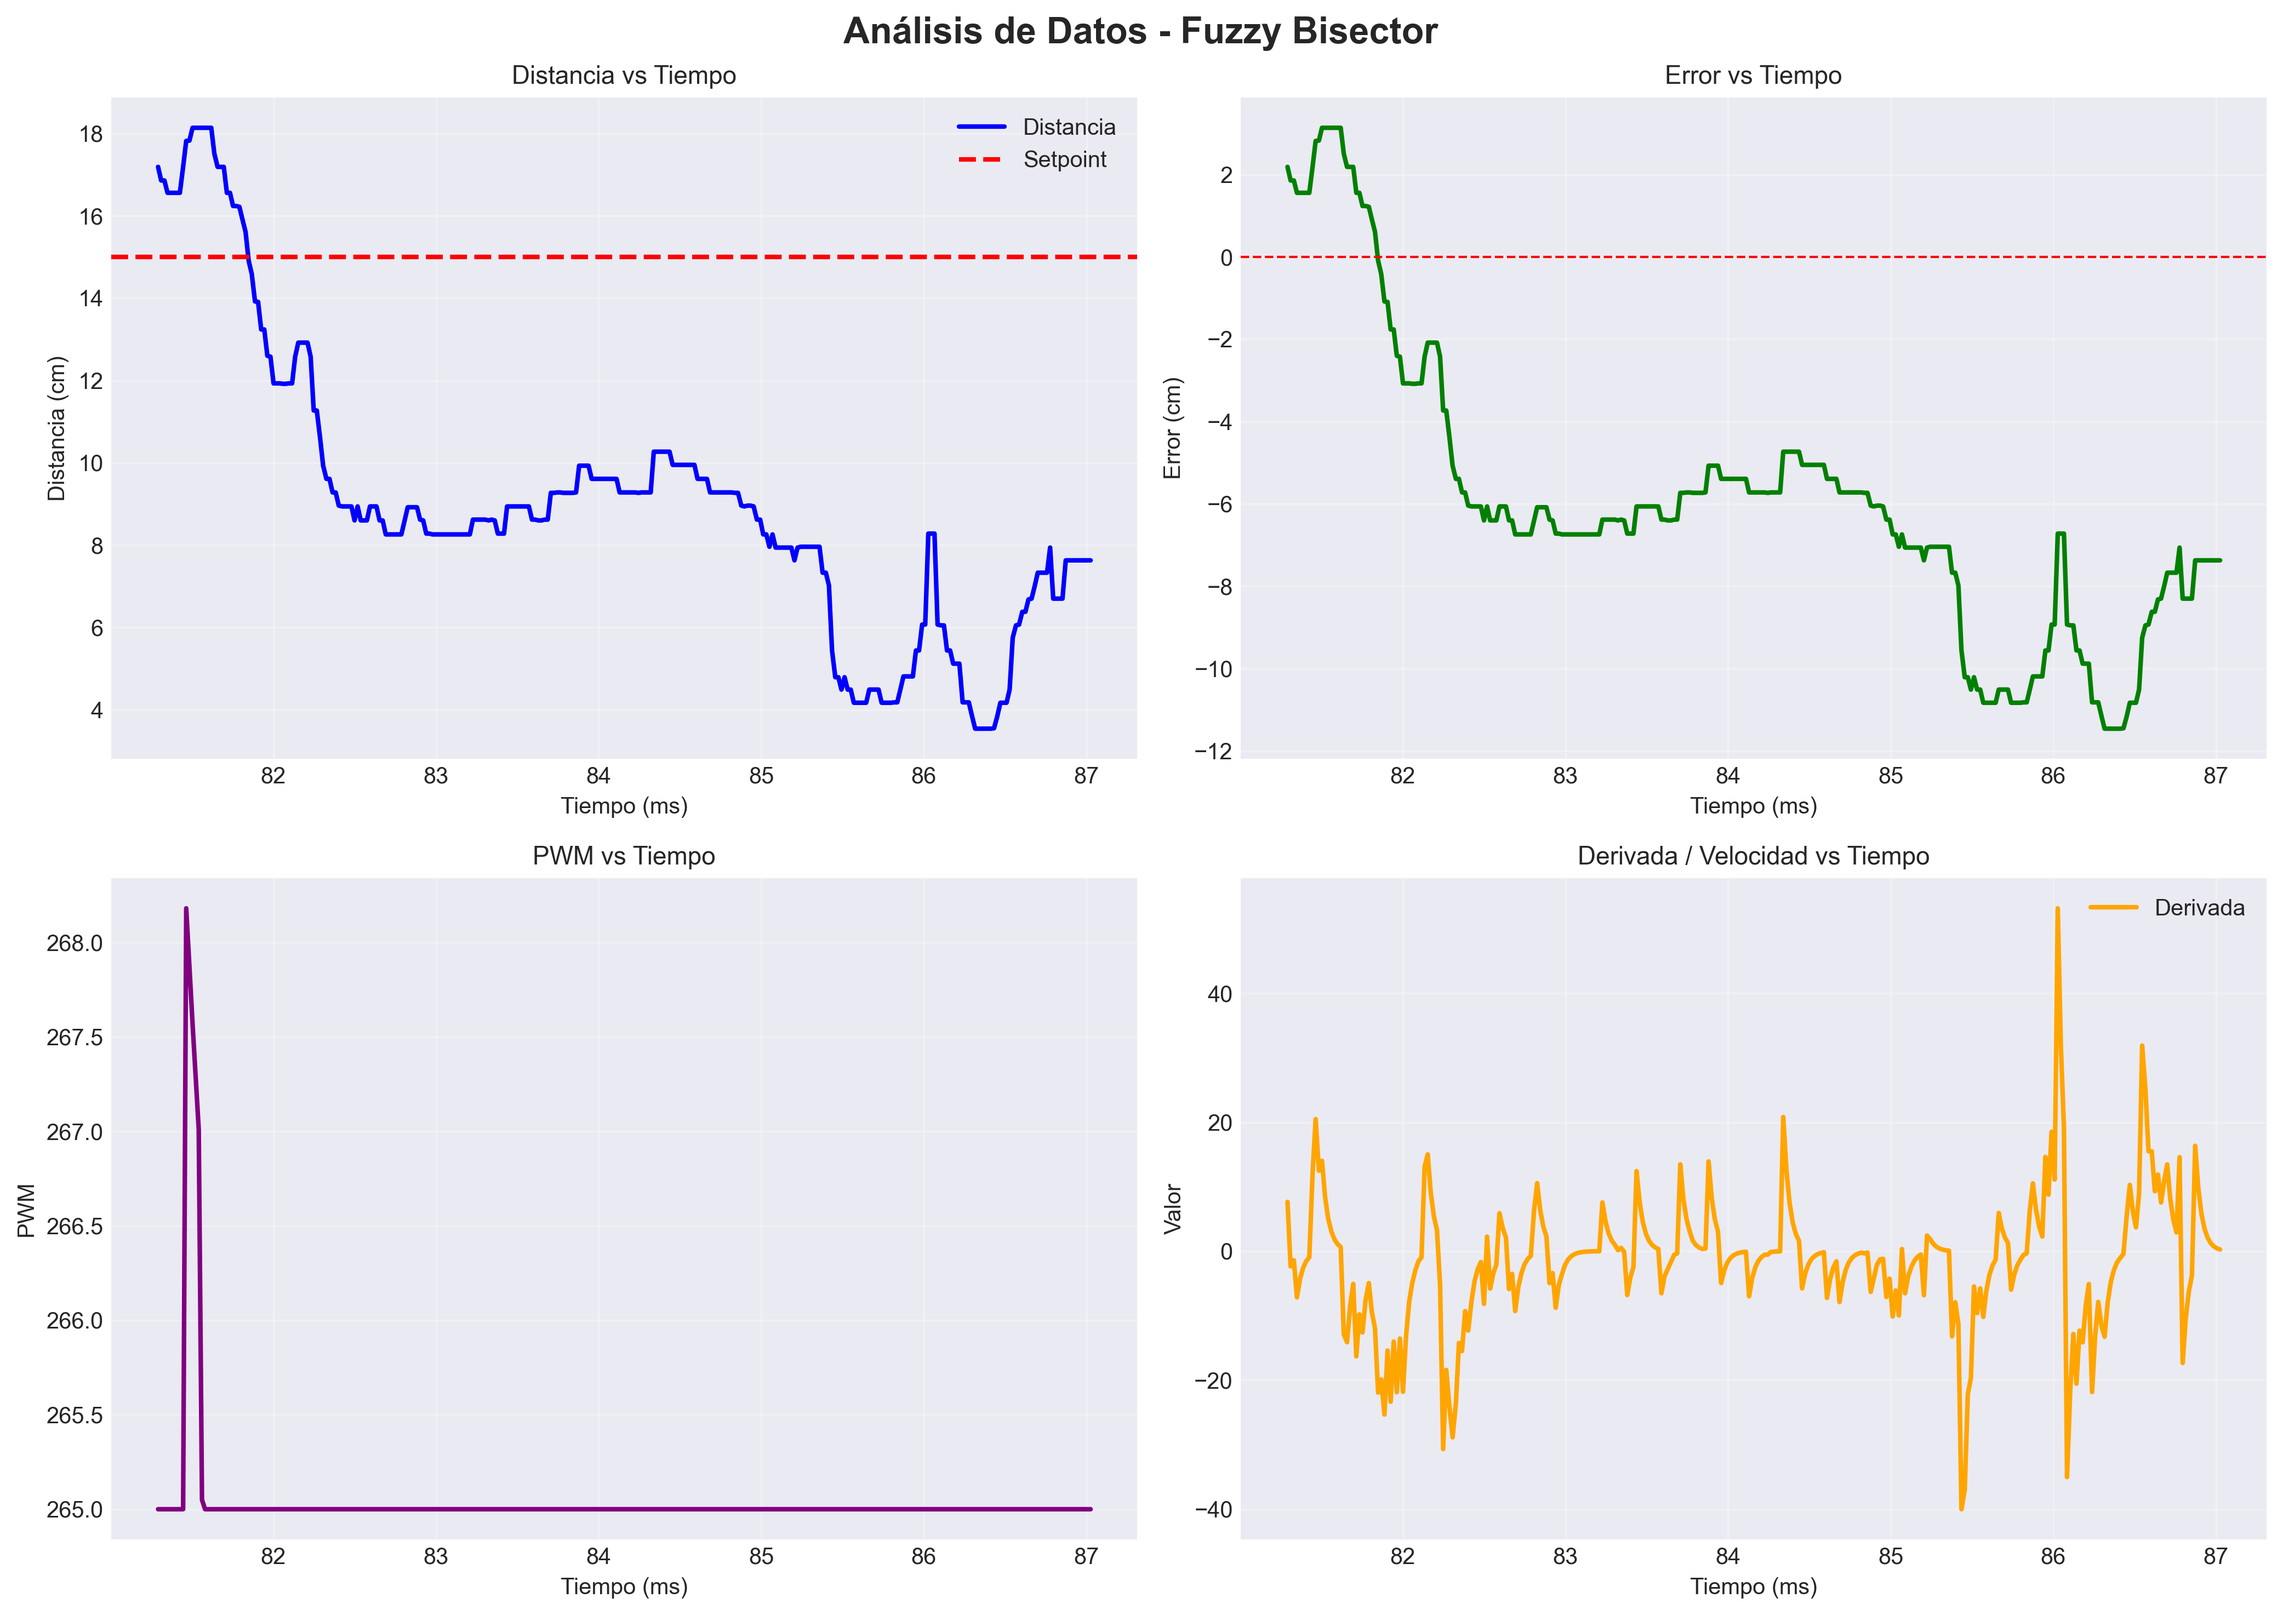
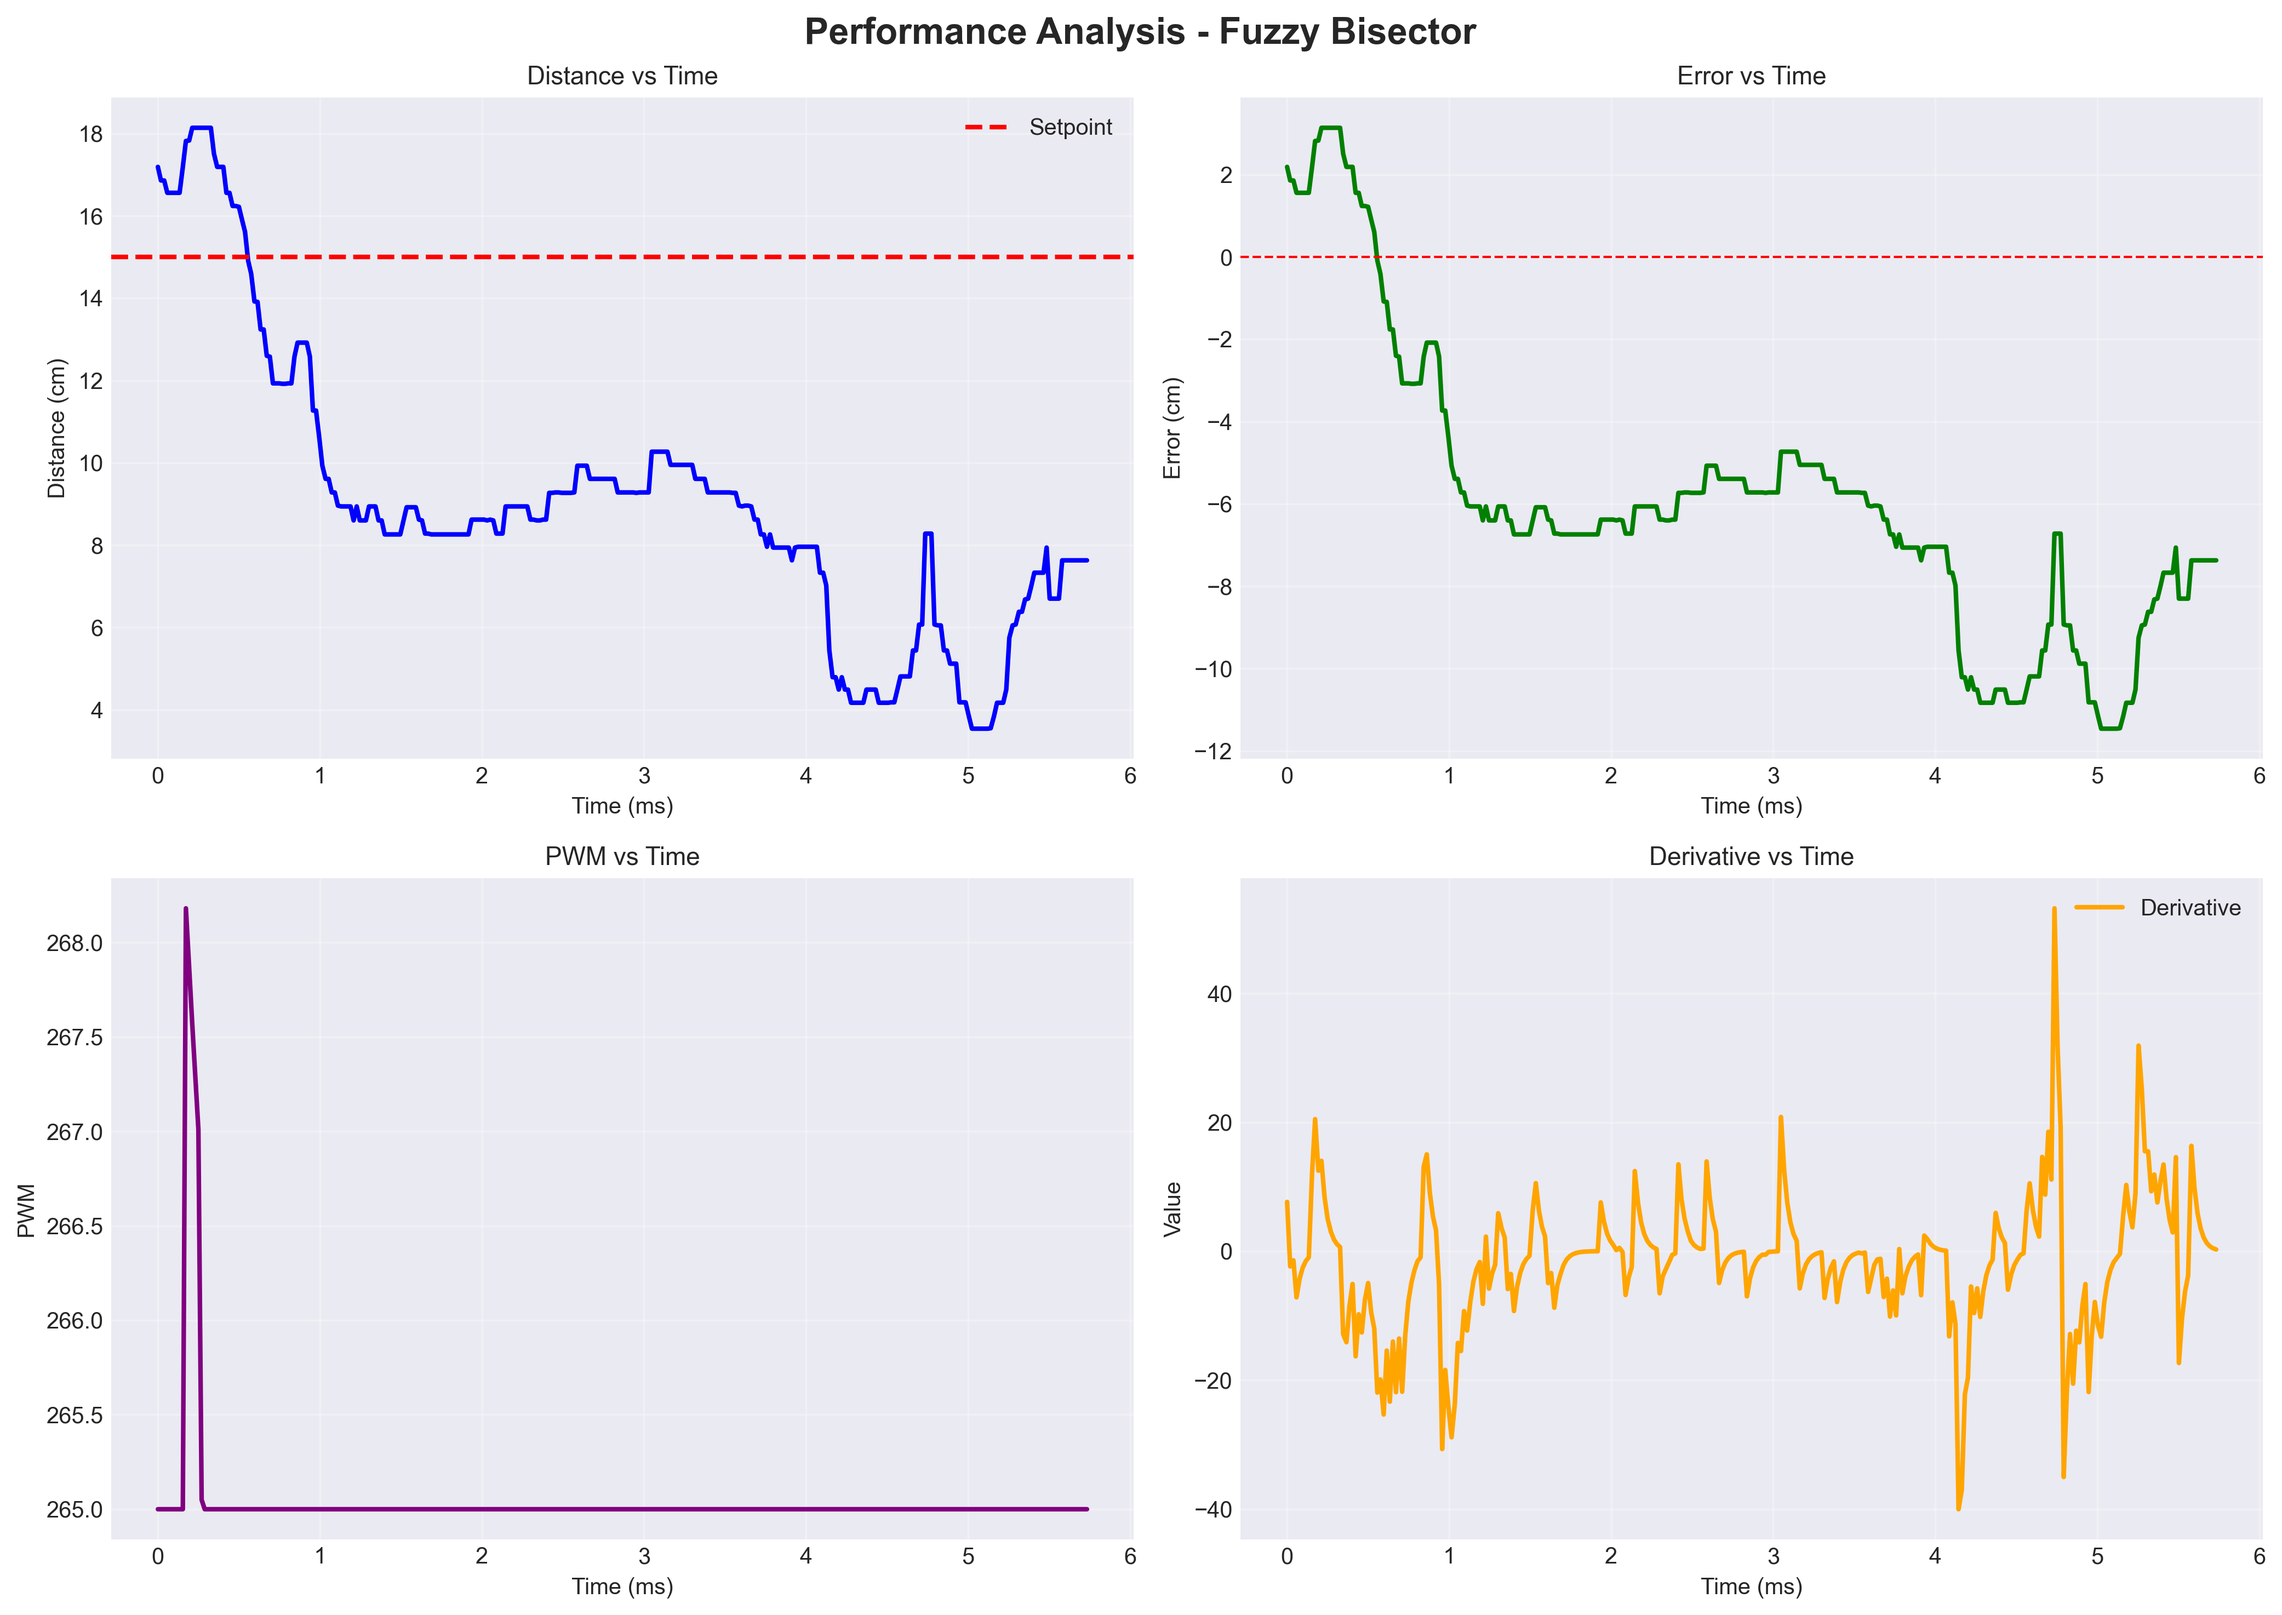
Final: Normalized time graphs for IEEE format - All methods properly overlaid and aligned

diff --git a/graficar_simple.py b/graficar_simple.py
@@ -1,0 +1,244 @@
+import pandas as pd
+import matplotlib.pyplot as plt
+import os
+
+# Crear directorio para guardar gráficas
+output_dir = r"c:\codigos-IA\graficas_compiladas"
+os.makedirs(output_dir, exist_ok=True)
+
+# Organizar métodos por categoría
+fuzzy_methods = {
+    'Bisector': r'c:\codigos-IA\logica_difusa\datos_esp32_bisector.csv',
+    'Centroide': r'c:\codigos-IA\logica_difusa\datos_esp32_centroide.csv',
+    'MOM': r'c:\codigos-IA\logica_difusa\datos_esp32_mom.csv',
+}
+
+neural_methods = {
+    'ReLU': r'c:\codigos-IA\redes_neuronales\datos_esp32_relu.csv',
+    'Sigmoid': r'c:\codigos-IA\redes_neuronales\datos_esp32_sigmoid.csv',
+    'Tanh': r'c:\codigos-IA\redes_neuronales\datos_esp32_tanh.csv',
+}
+
+rl_methods = {
+    'DQN': r'c:\codigos-IA\aprendizaje_refuerzo\datos_esp32_dqn.csv',
+    'Q-Learning': r'c:\codigos-IA\aprendizaje_refuerzo\datos_esp32_qlearning.csv',
+}
+
+# Configurar estilo
+plt.style.use('seaborn-v0_8-darkgrid')
+
+# ===== CREAR GRÁFICAS POR CATEGORÍA - TODOS SUPERPUESTOS EN 2 PLOTS =====
+print("Creating category comparison graphs (all methods overlaid)...")
+
+# 1. FUZZY LOGIC
+print("\n1. Creating Fuzzy Logic comparison...")
+fig, (ax1, ax2) = plt.subplots(1, 2, figsize=(16, 6))
+fig.suptitle('Fuzzy Logic Methods - Comparison', fontsize=16, fontweight='bold')
+
+for metodo_nombre, ruta in fuzzy_methods.items():
+    df = pd.read_csv(ruta)
+    # Normalizar tiempo (restar el tiempo inicial)
+    tiempo_norm = df['tiempo'] - df['tiempo'].iloc[0]
+    ax1.plot(tiempo_norm, df['distancia'], linewidth=2.5, label=metodo_nombre, marker='', alpha=0.8)
+    ax2.plot(tiempo_norm, df['error'], linewidth=2.5, label=metodo_nombre, marker='', alpha=0.8)
+
+# Setpoint en distancia
+setpoint = pd.read_csv(list(fuzzy_methods.values())[0])['setpoint'].iloc[0]
+ax1.axhline(y=setpoint, color='red', linestyle='--', linewidth=1.5, alpha=0.7, label='Setpoint')
+ax2.axhline(y=0, color='black', linestyle='--', linewidth=1, alpha=0.5)
+
+ax1.set_xlabel('Time (ms)', fontsize=12)
+ax1.set_ylabel('Distance (cm)', fontsize=12)
+ax1.set_title('Distance vs Time', fontsize=13)
+ax1.legend(fontsize=11)
+ax1.grid(True, alpha=0.3)
+
+ax2.set_xlabel('Time (ms)', fontsize=12)
+ax2.set_ylabel('Error (cm)', fontsize=12)
+ax2.set_title('Error vs Time', fontsize=13)
+ax2.legend(fontsize=11)
+ax2.grid(True, alpha=0.3)
+
+plt.tight_layout()
+plt.savefig(os.path.join(output_dir, 'Category_Fuzzy_Logic.png'), dpi=300, bbox_inches='tight')
+plt.close()
+print("✓ Saved: Category_Fuzzy_Logic.png")
+
+# 2. NEURAL NETWORKS
+print("2. Creating Neural Networks comparison...")
+fig, (ax1, ax2) = plt.subplots(1, 2, figsize=(16, 6))
+fig.suptitle('Neural Network Methods - Comparison', fontsize=16, fontweight='bold')
+
+for metodo_nombre, ruta in neural_methods.items():
+    df = pd.read_csv(ruta)
+    # Normalizar tiempo (restar el tiempo inicial)
+    tiempo_norm = df['tiempo'] - df['tiempo'].iloc[0]
+    ax1.plot(tiempo_norm, df['distancia'], linewidth=2.5, label=metodo_nombre, marker='', alpha=0.8)
+    ax2.plot(tiempo_norm, df['error'], linewidth=2.5, label=metodo_nombre, marker='', alpha=0.8)
+
+setpoint = pd.read_csv(list(neural_methods.values())[0])['setpoint'].iloc[0]
+ax1.axhline(y=setpoint, color='red', linestyle='--', linewidth=1.5, alpha=0.7, label='Setpoint')
+ax2.axhline(y=0, color='black', linestyle='--', linewidth=1, alpha=0.5)
+
+ax1.set_xlabel('Time (ms)', fontsize=12)
+ax1.set_ylabel('Distance (cm)', fontsize=12)
+ax1.set_title('Distance vs Time', fontsize=13)
+ax1.legend(fontsize=11)
+ax1.grid(True, alpha=0.3)
+
+ax2.set_xlabel('Time (ms)', fontsize=12)
+ax2.set_ylabel('Error (cm)', fontsize=12)
+ax2.set_title('Error vs Time', fontsize=13)
+ax2.legend(fontsize=11)
+ax2.grid(True, alpha=0.3)
+
+plt.tight_layout()
+plt.savefig(os.path.join(output_dir, 'Category_Neural_Networks.png'), dpi=300, bbox_inches='tight')
+plt.close()
+print("✓ Saved: Category_Neural_Networks.png")
+
+# 3. REINFORCEMENT LEARNING
+print("3. Creating Reinforcement Learning comparison...")
+fig, (ax1, ax2) = plt.subplots(1, 2, figsize=(16, 6))
+fig.suptitle('Reinforcement Learning Methods - Comparison', fontsize=16, fontweight='bold')
+
+for metodo_nombre, ruta in rl_methods.items():
+    df = pd.read_csv(ruta)
+    # Normalizar tiempo (restar el tiempo inicial)
+    tiempo_norm = df['tiempo'] - df['tiempo'].iloc[0]
+    ax1.plot(tiempo_norm, df['distancia'], linewidth=2.5, label=metodo_nombre, marker='', alpha=0.8)
+    ax2.plot(tiempo_norm, df['error'], linewidth=2.5, label=metodo_nombre, marker='', alpha=0.8)
+
+setpoint = pd.read_csv(list(rl_methods.values())[0])['setpoint'].iloc[0]
+ax1.axhline(y=setpoint, color='red', linestyle='--', linewidth=1.5, alpha=0.7, label='Setpoint')
+ax2.axhline(y=0, color='black', linestyle='--', linewidth=1, alpha=0.5)
+
+ax1.set_xlabel('Time (ms)', fontsize=12)
+ax1.set_ylabel('Distance (cm)', fontsize=12)
+ax1.set_title('Distance vs Time', fontsize=13)
+ax1.legend(fontsize=11)
+ax1.grid(True, alpha=0.3)
+
+ax2.set_xlabel('Time (ms)', fontsize=12)
+ax2.set_ylabel('Error (cm)', fontsize=12)
+ax2.set_title('Error vs Time', fontsize=13)
+ax2.legend(fontsize=11)
+ax2.grid(True, alpha=0.3)
+
+plt.tight_layout()
+plt.savefig(os.path.join(output_dir, 'Category_Reinforcement_Learning.png'), dpi=300, bbox_inches='tight')
+plt.close()
+print("✓ Saved: Category_Reinforcement_Learning.png")
+
+# 4. COMPARATIVA GENERAL
+print("4. Creating overall comparison...")
+all_methods = {
+    'Fuzzy Bisector': r'c:\codigos-IA\logica_difusa\datos_esp32_bisector.csv',
+    'Fuzzy Centroide': r'c:\codigos-IA\logica_difusa\datos_esp32_centroide.csv',
+    'Fuzzy MOM': r'c:\codigos-IA\logica_difusa\datos_esp32_mom.csv',
+    'NN ReLU': r'c:\codigos-IA\redes_neuronales\datos_esp32_relu.csv',
+    'NN Sigmoid': r'c:\codigos-IA\redes_neuronales\datos_esp32_sigmoid.csv',
+    'NN Tanh': r'c:\codigos-IA\redes_neuronales\datos_esp32_tanh.csv',
+    'RL DQN': r'c:\codigos-IA\aprendizaje_refuerzo\datos_esp32_dqn.csv',
+    'RL Q-Learning': r'c:\codigos-IA\aprendizaje_refuerzo\datos_esp32_qlearning.csv',
+}
+
+fig, (ax1, ax2) = plt.subplots(1, 2, figsize=(16, 6))
+fig.suptitle('All Methods - Overall Comparison', fontsize=16, fontweight='bold')
+
+for metodo_nombre, ruta in all_methods.items():
+    df = pd.read_csv(ruta)
+    # Normalizar tiempo (restar el tiempo inicial)
+    tiempo_norm = df['tiempo'] - df['tiempo'].iloc[0]
+    ax1.plot(tiempo_norm, df['distancia'], linewidth=2, label=metodo_nombre, alpha=0.75)
+    ax2.plot(tiempo_norm, df['error'], linewidth=2, label=metodo_nombre, alpha=0.75)
+
+ax1.axhline(y=15, color='red', linestyle='--', linewidth=1.5, alpha=0.7, label='Setpoint')
+ax2.axhline(y=0, color='black', linestyle='--', linewidth=1, alpha=0.5)
+
+ax1.set_xlabel('Time (ms)', fontsize=12)
+ax1.set_ylabel('Distance (cm)', fontsize=12)
+ax1.set_title('Distance vs Time', fontsize=13)
+ax1.legend(fontsize=9)
+ax1.grid(True, alpha=0.3)
+
+ax2.set_xlabel('Time (ms)', fontsize=12)
+ax2.set_ylabel('Error (cm)', fontsize=12)
+ax2.set_title('Error vs Time', fontsize=13)
+ax2.legend(fontsize=9)
+ax2.grid(True, alpha=0.3)
+
+plt.tight_layout()
+plt.savefig(os.path.join(output_dir, 'Comparison_All_Methods.png'), dpi=300, bbox_inches='tight')
+plt.close()
+print("✓ Saved: Comparison_All_Methods.png")
+
+# 5. GRÁFICAS INDIVIDUALES DETALLADAS (4 subplots por método)
+print("\n5. Creating individual detailed graphs (4 subplots each)...")
+
+all_csv_files = {
+    'Fuzzy Bisector': r'c:\codigos-IA\logica_difusa\datos_esp32_bisector.csv',
+    'Fuzzy Centroide': r'c:\codigos-IA\logica_difusa\datos_esp32_centroide.csv',
+    'Fuzzy MOM': r'c:\codigos-IA\logica_difusa\datos_esp32_mom.csv',
+    'Neural Network ReLU': r'c:\codigos-IA\redes_neuronales\datos_esp32_relu.csv',
+    'Neural Network Sigmoid': r'c:\codigos-IA\redes_neuronales\datos_esp32_sigmoid.csv',
+    'Neural Network Tanh': r'c:\codigos-IA\redes_neuronales\datos_esp32_tanh.csv',
+    'Reinforcement Learning DQN': r'c:\codigos-IA\aprendizaje_refuerzo\datos_esp32_dqn.csv',
+    'Reinforcement Learning Q-Learning': r'c:\codigos-IA\aprendizaje_refuerzo\datos_esp32_qlearning.csv',
+}
+
+for nombre, ruta in all_csv_files.items():
+    df = pd.read_csv(ruta)
+    # Normalizar tiempo
+    tiempo_norm = df['tiempo'] - df['tiempo'].iloc[0]
+    
+    fig, axes = plt.subplots(2, 2, figsize=(14, 10))
+    fig.suptitle(f'Performance Analysis - {nombre}', fontsize=16, fontweight='bold')
+    
+    # Distancia
+    axes[0, 0].plot(tiempo_norm, df['distancia'], 'b-', linewidth=2)
+    axes[0, 0].axhline(y=df['setpoint'].iloc[0], color='r', linestyle='--', linewidth=2, label='Setpoint')
+    axes[0, 0].set_xlabel('Time (ms)', fontsize=10)
+    axes[0, 0].set_ylabel('Distance (cm)', fontsize=10)
+    axes[0, 0].set_title('Distance vs Time', fontsize=11)
+    axes[0, 0].legend()
+    axes[0, 0].grid(True, alpha=0.3)
+    
+    # Error
+    axes[0, 1].plot(tiempo_norm, df['error'], 'g-', linewidth=2)
+    axes[0, 1].axhline(y=0, color='r', linestyle='--', linewidth=1)
+    axes[0, 1].set_xlabel('Time (ms)', fontsize=10)
+    axes[0, 1].set_ylabel('Error (cm)', fontsize=10)
+    axes[0, 1].set_title('Error vs Time', fontsize=11)
+    axes[0, 1].grid(True, alpha=0.3)
+    
+    # PWM
+    axes[1, 0].plot(tiempo_norm, df['pwm'], 'purple', linewidth=2)
+    axes[1, 0].set_xlabel('Time (ms)', fontsize=10)
+    axes[1, 0].set_ylabel('PWM', fontsize=10)
+    axes[1, 0].set_title('PWM vs Time', fontsize=11)
+    axes[1, 0].grid(True, alpha=0.3)
+    
+    # Derivada o Velocidad
+    if 'derivada' in df.columns:
+        axes[1, 1].plot(tiempo_norm, df['derivada'], 'orange', linewidth=2, label='Derivative')
+        axes[1, 1].set_title('Derivative vs Time', fontsize=11)
+    if 'velocidad' in df.columns:
+        axes[1, 1].plot(tiempo_norm, df['velocidad'], 'cyan', linewidth=2, label='Velocity')
+        axes[1, 1].set_title('Velocity vs Time', fontsize=11)
+    
+    axes[1, 1].set_xlabel('Time (ms)', fontsize=10)
+    axes[1, 1].set_ylabel('Value', fontsize=10)
+    axes[1, 1].legend()
+    axes[1, 1].grid(True, alpha=0.3)
+    
+    plt.tight_layout()
+    
+    filename = f"{nombre.replace(' ', '_').replace('/', '_')}.png"
+    plt.savefig(os.path.join(output_dir, filename), dpi=300, bbox_inches='tight')
+    plt.close()
+    print(f"✓ Saved: {filename}")
+
+print("\n" + "=" * 60)
+print(f"✓ All graphs successfully saved to: {output_dir}")
+print("=" * 60)
